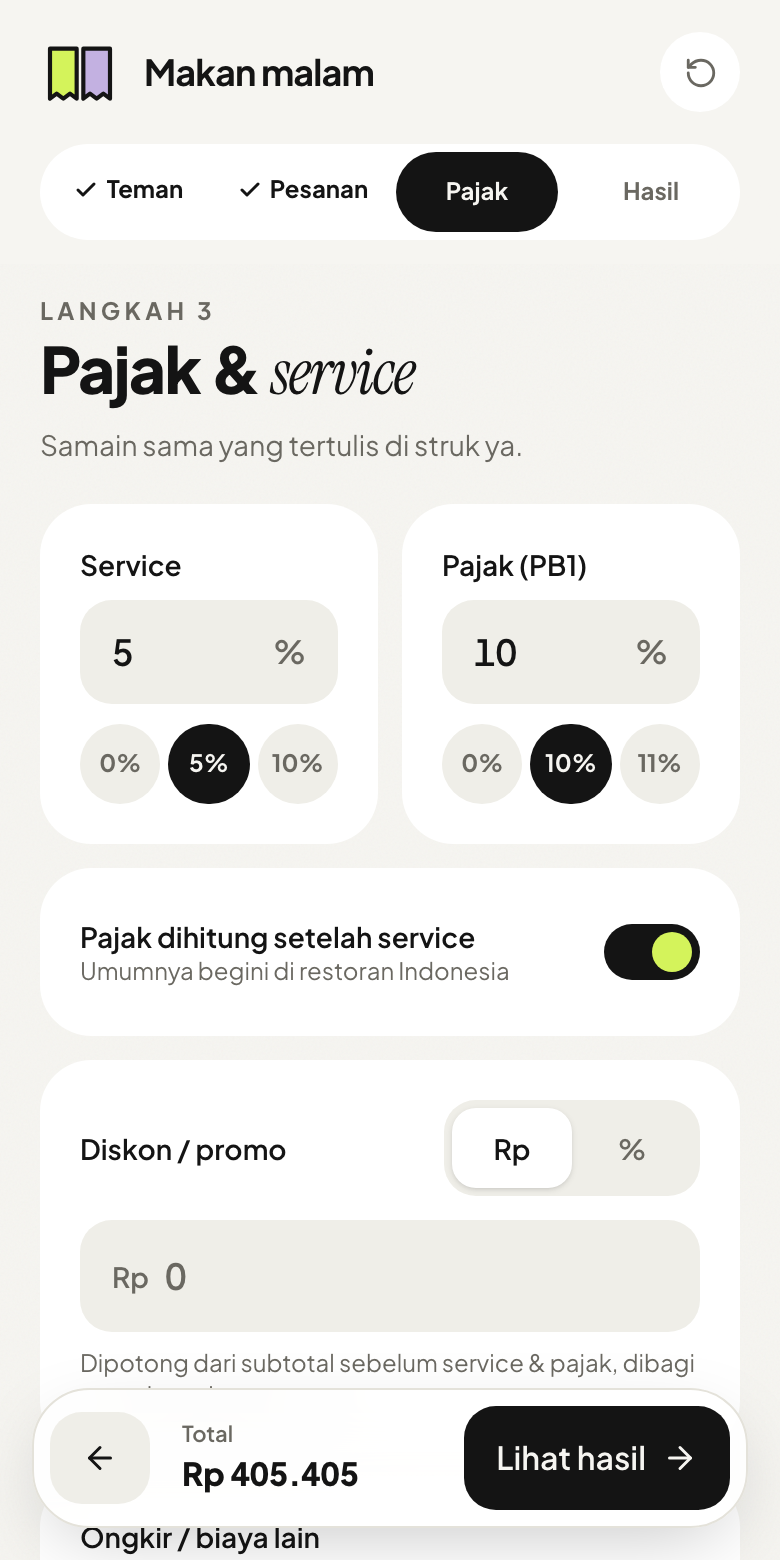
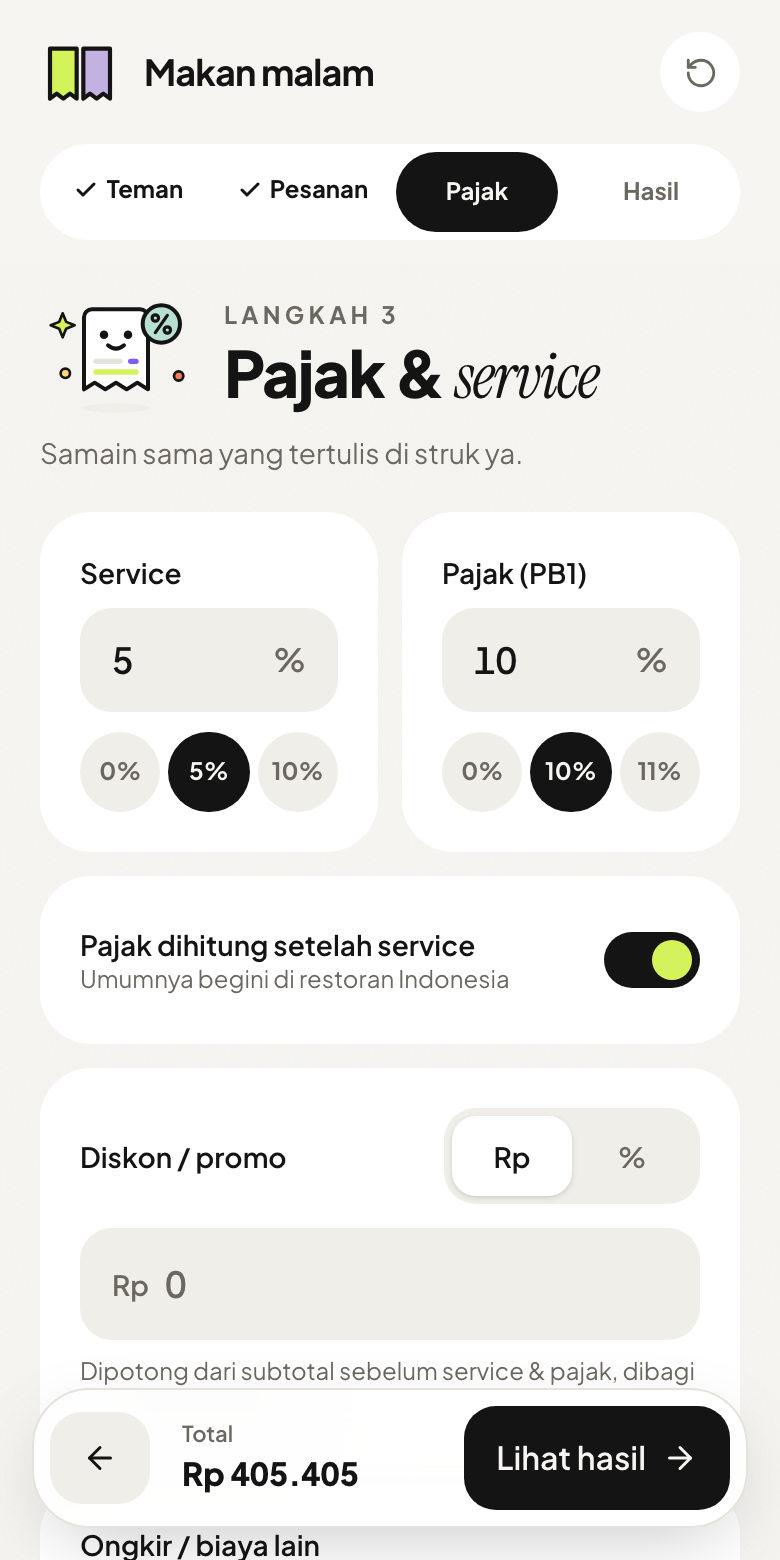
feat: ilustrasi struk berwajah di header langkah Pajak
Langkah Pajak satu-satunya langkah yang belum punya ilustrasi. Sekarang
header-nya punya struk kecil berwajah dengan lencana %, di kiri judul
seperti header langkah Hasil. Gayanya sama dengan ilustrasi lain: garis
tinta, wajah titik, warna mint, lime, coral, dan kuning, serta gerak
melayang pelan yang berhenti kalau pengguna memilih reduced motion.

- SectionTitle menerima prop `art` opsional untuk ilustrasi di kiri
  judul. Langkah lain tidak berubah.
- Tanda % digambar sebagai garis, bukan teks, supaya tetap tajam dan
  kontrasnya terjaga di mode gelap.
- Screenshot README langkah Pajak diambil ulang.

diff --git a/src/ui/Illustrations.tsx b/src/ui/Illustrations.tsx
@@ -90,6 +90,53 @@ export function ReceiptIllustration({ className = '' }: { className?: string }) 
   )
 }
 
+/** Struk kecil berwajah dengan lencana % — header langkah Pajak. */
+export function TaxIllustration({ className = '' }: { className?: string }) {
+  return (
+    <svg viewBox="0 0 120 90" className={className} aria-hidden>
+      <ellipse cx="57" cy="84" rx="26" ry="3.5" fill="var(--surface-2)" />
+      <motion.g {...float(0, 3)}>
+        <path
+          d="M39 10h36a6 6 0 0 1 6 6v54l-8-5-8 5-8-5-8 5-8-5-8 5V16a6 6 0 0 1 6-6z"
+          fill="var(--surface)"
+          stroke="var(--ink)"
+          strokeWidth="3"
+          strokeLinejoin="round"
+        />
+        <circle cx="48" cy="29" r="3.2" fill="var(--ink)" />
+        <circle cx="66" cy="29" r="3.2" fill="var(--ink)" />
+        <path d="M51 37q6 5 12 0" stroke="var(--ink)" strokeWidth="3" strokeLinecap="round" fill="none" />
+        <rect x="40" y="47" width="22" height="4" rx="2" fill="var(--line)" />
+        <rect x="66" y="47" width="8" height="4" rx="2" fill="#7C5CFF" />
+        <rect x="40" y="55" width="34" height="4" rx="2" fill="#D4F35B" />
+      </motion.g>
+      <motion.g
+        animate={{ y: [0, -4, 0], rotate: [0, 8, 0] }}
+        transition={{ duration: 3, repeat: Infinity, ease: 'easeInOut', delay: 0.3 }}
+      >
+        <circle cx="91" cy="21" r="14" fill="#B8E0D2" stroke="var(--ink)" strokeWidth="3" />
+        {/* Tanda % digambar sebagai garis supaya tetap tajam dan gelap di mode gelap. */}
+        <g stroke="#141414" strokeWidth="2.4" strokeLinecap="round" fill="none">
+          <circle cx="86.5" cy="16.5" r="2.4" />
+          <circle cx="95.5" cy="25.5" r="2.4" />
+          <path d="M95.5 14.5l-9 13" />
+        </g>
+      </motion.g>
+      <motion.path
+        d="M17 13l2.6 6.4 6.4 2.6-6.4 2.6-2.6 6.4-2.6-6.4-6.4-2.6 6.4-2.6z"
+        fill="#D4F35B"
+        stroke="var(--ink)"
+        strokeWidth="2"
+        strokeLinejoin="round"
+        animate={{ scale: [1, 1.2, 1], rotate: [0, 20, 0] }}
+        transition={{ duration: 2.4, repeat: Infinity }}
+      />
+      <circle cx="104" cy="60" r="3.5" fill="#FF7A59" stroke="var(--ink)" strokeWidth="2" />
+      <circle cx="19" cy="58" r="3.5" fill="#FFD97D" stroke="var(--ink)" strokeWidth="2" />
+    </svg>
+  )
+}
+
 /** Dompet yang “membelah” — hero kecil di header. */
 export function SplitMark({ className = '' }: { className?: string }) {
   return (

diff --git a/src/features/charges/ChargesStep.tsx b/src/features/charges/ChargesStep.tsx
@@ -3,7 +3,7 @@ import type { Dispatch, ReactNode } from 'react'
 import type { Bill } from '../../domain/bill'
 import type { BillResult } from '../../domain/calculate'
 import type { Action } from '../../state/billReducer'
-import { AnimatedRupiah, MoneyInput, PercentInput, SectionTitle, Segmented, Toggle } from '../../ui'
+import { AnimatedRupiah, MoneyInput, PercentInput, SectionTitle, Segmented, TaxIllustration, Toggle } from '../../ui'
 
 function Presets({ label, values, current, onPick }: { label: string; values: number[]; current: number; onPick: (v: number) => void }) {
   return (
@@ -42,7 +42,11 @@ export function ChargesStep({ bill, result, dispatch }: { bill: Bill; result: Bi
 
   return (
     <div>
-      <SectionTitle eyebrow="Langkah 3" title={<>Pajak & <span className="font-serif font-normal italic">service</span></>}>
+      <SectionTitle
+        eyebrow="Langkah 3"
+        title={<>Pajak & <span className="font-serif font-normal italic">service</span></>}
+        art={<TaxIllustration className="w-20 shrink-0" />}
+      >
         Samain sama yang tertulis di struk ya.
       </SectionTitle>
 

diff --git a/src/ui/SectionTitle.tsx b/src/ui/SectionTitle.tsx
@@ -1,10 +1,23 @@
 import type { ReactNode } from 'react'
 
-export function SectionTitle({ eyebrow, title, children }: { eyebrow: string; title: ReactNode; children?: ReactNode }) {
-  return (
-    <div className="mb-5">
+export function SectionTitle({ eyebrow, title, art, children }: { eyebrow: string; title: ReactNode; art?: ReactNode; children?: ReactNode }) {
+  const heading = (
+    <>
       <p className="text-xs font-bold tracking-[0.18em] text-muted uppercase">{eyebrow}</p>
       <h2 className="mt-1 text-[2rem] leading-[1.05] font-extrabold tracking-tight">{title}</h2>
+    </>
+  )
+  return (
+    <div className="mb-5">
+      {/* Ilustrasi opsional di kiri judul, sama seperti header langkah Hasil. */}
+      {art ? (
+        <div className="flex items-center gap-3">
+          {art}
+          <div>{heading}</div>
+        </div>
+      ) : (
+        heading
+      )}
       {children && <p className="mt-2 text-sm text-muted">{children}</p>}
     </div>
   )

diff --git a/src/ui/index.ts b/src/ui/index.ts
@@ -2,7 +2,7 @@ export { AnimatedRupiah } from './AnimatedRupiah'
 export { AppToaster } from './AppToaster'
 export { Avatar } from './Avatar'
 export { Button } from './Button'
-export { DoneIllustration, FriendsIllustration, ReceiptIllustration, SplitMark } from './Illustrations'
+export { DoneIllustration, FriendsIllustration, ReceiptIllustration, SplitMark, TaxIllustration } from './Illustrations'
 export { MoneyInput } from './MoneyInput'
 export { PercentInput } from './PercentInput'
 export { SectionTitle } from './SectionTitle'
